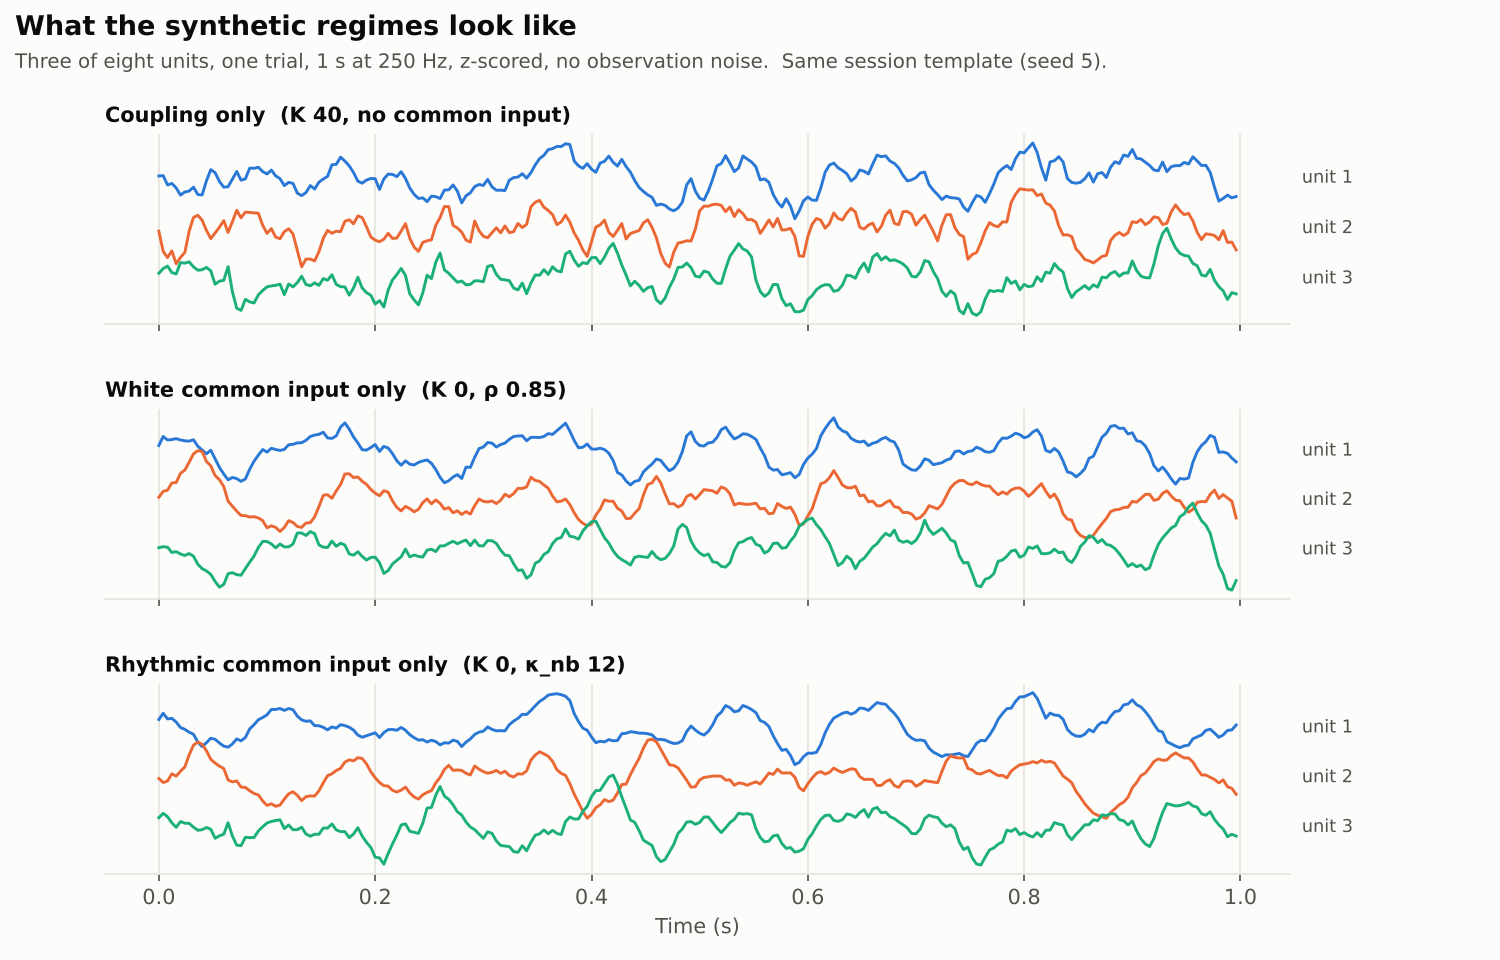
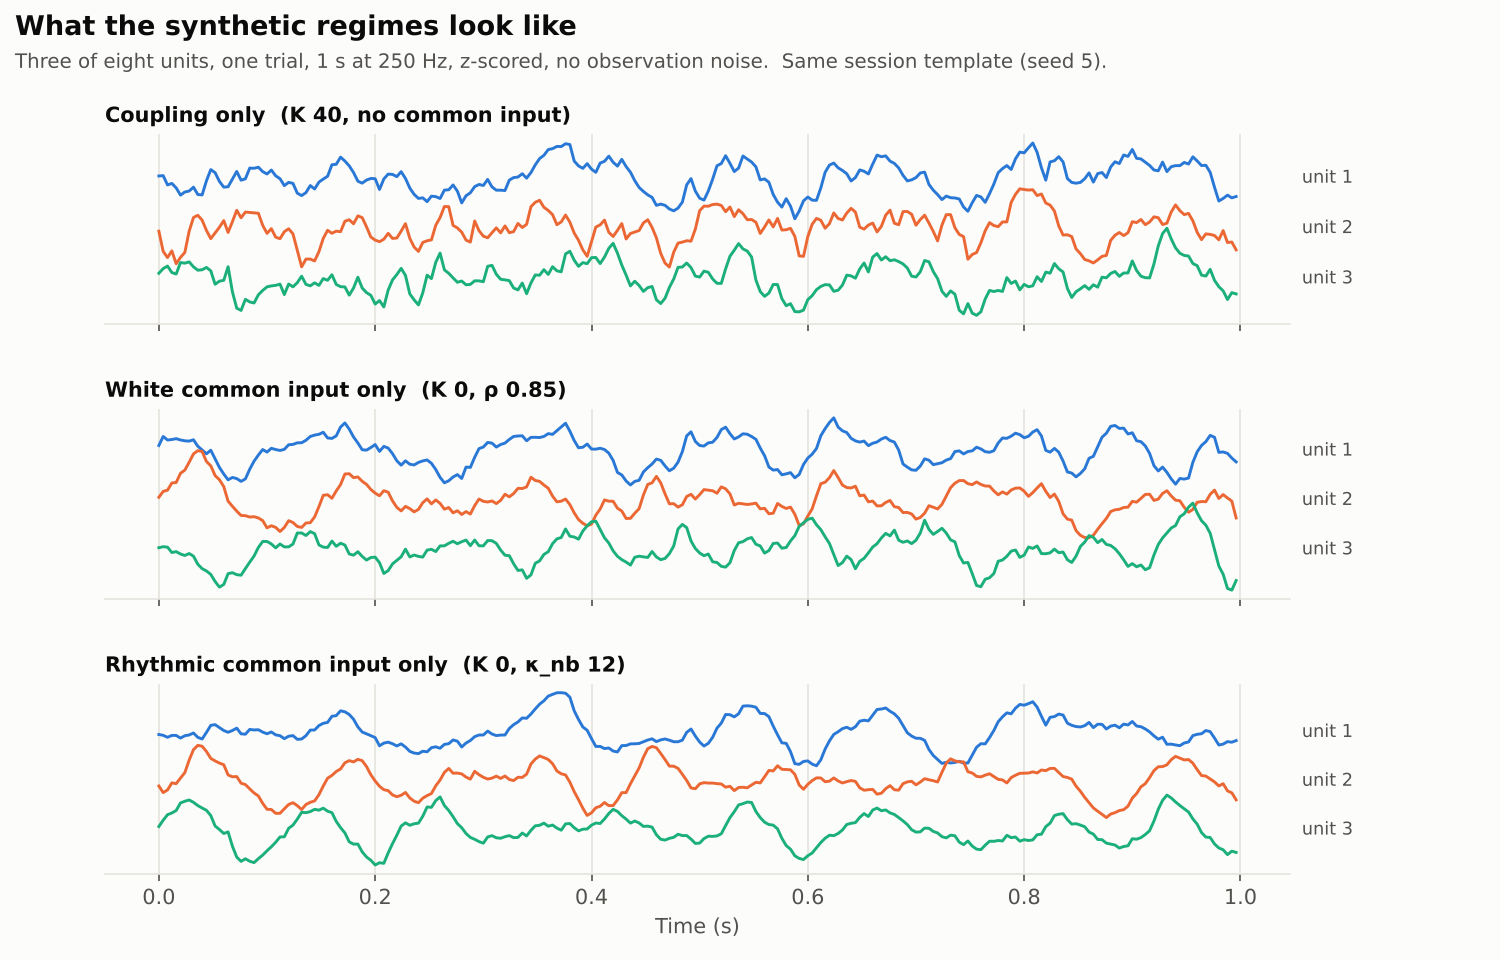
Screen 11 outcome: calibration failed (effective alpha 1.00); rhythmic common input fires rule v3r with P 0.94-1.00 -> TE/LDS rule retired as pre-committed; white common input and volume conduction correctly blocked; correlated 1/f noise defeats noise matching; fig 8

diff --git a/results/README_results.md b/results/README_results.md
@@ -543,3 +543,52 @@ The dry runs check that the runner and the analysis path behave.
 - Its power for a 20% EC change is marginal at 10 sessions. hc-5 has 7, so only effects of about 30% or more are
   realistic.
 - Short 8-site shanks make the whole route infeasible. Gate 0 will decide this on the real data.
+
+## Screen 11: terminal calibration of rule v3r (DEVIATIONS 21; `results/screen11/`; fig 8)
+
+**Pre-committed outcome: the TE/LDS within-session rule is RETIRED.** It must not be used on any real data. This is
+reported as a negative methods result.
+
+**Calibration.** The rhythmic-drive levels were kappa 4.25 / 5.91 / 9.22, which raise synchrony by 0.5x / 1x / 2x
+the synchrony increase of K 25 -> 40 (Delta PLV 0.055).
+
+| cell | Delta PLV | Delta S_TE_al | rel Delta S_inst_dn | P(TE leg) | **P(rule)** | must |
+|---|---|---|---|---|---|---|
+| null / +1 Hz / self-damping x2 | <= 0 | <= 0 | - | 0.00 | <= 0.00 (TE bound) | not fire |
+| -1 Hz | -0.011 | +0.0005 | +0.05 | 0.16 | **0.34** | not fire |
+| **rhythmic common input low / mid / high** | +0.032 / +0.056 / +0.111 | +0.0029 / +0.0054 / +0.0115 | +0.06 / +0.08 / +0.11 | 1.00 | **1.00 / 1.00 / 0.94** | not fire |
+| white common rho 0.55 / 0.60 / 0.65 | +0.005 / +0.012 / +0.020 | small | +0.46 / +0.70 (0.60 / 0.65) | 0.01 / 0.10 / 0.15 | 0.01 (bound) / 0.00 / 0.00 | not fire |
+| volume conduction | +0.166 | +0.0197 | +4.27 | 1.00 | 0.00 | not fire |
+| correlated 1/f noise, A 10 dB vs B 0 dB | +0.029 | +0.0017 | -0.25 | 1.00 | **1.00** | not fire |
+| coupling K30 / K35 / K40 | +0.023 / +0.044 / +0.064 | +0.0021 / +0.0043 / +0.0065 | +0.08 (K35) | 1.00 | 0.99 (K35) | fire |
+| coupling K35 with rhythm in both | +0.052 | +0.0056 | +0.09 | 1.00 | 1.00 | fire |
+
+**Verdict (frozen criteria).**
+- Effective alpha = **1.00** (calibration fails).
+- Power at K35 = 0.99.
+- Retirement is triggered by all three rhythmic cells (DEVIATIONS 20/21 pre-commitment).
+
+**What the numbers say.**
+1. **Rhythmic common input is indistinguishable from coupling for this rule.** Per unit of synchrony gained, it
+   raises TE as much as coupling does (+0.0054 at Delta PLV 0.056, vs +0.0043 at 0.044 for K35). It also moves
+   the denoised instantaneous correlation by the same small amount (+8% vs +8%).
+   - A shared rhythm is a latent oscillator with memory. The LDS absorbs it into the lagged dynamics A, not into
+     the instantaneous covariance Q, exactly as the information theorist and the statistician predicted in
+     board round 2.
+   - This is the rival hypothesis for hc-5 (septal/EC theta drive), so the rule cannot answer the question it was
+     built for.
+2. **What the guard does catch.** It works for instantaneous sources: white common input (P 0.00 at rho 0.60 and
+   0.65) and volume conduction (rel Delta +427%, P 0.00).
+3. **Noise matching fails under spatially correlated 1/f noise.** Q1 fires with P 1.00, because the diagonal-R
+   model mis-estimates correlated noise and the guard then sees a 25% *drop*. This confirms the board's concern
+   about real sensor noise.
+4. **The frequency fix is incomplete with the exact integrator** (-1 Hz: P 0.34). Part of the stage D/C
+   frequency "fix" was compensating the Euler damping artefact.
+
+**Consequences (already in place).**
+- **hc-5:** the adopted plan is the generator-mix hypothesis (`docs/PREREG_H3_GENERATOR_MIX_DRAFT.md`), not a
+  coupling statistic.
+- **Synthetic programme:** screens 1-11 are closed as a methods result. Within-session phase-dependence statistics
+  (TE plus instantaneous-correlation guard, with frequency and noise adjustments) separate coupling from
+  *instantaneous* common input. They do not separate it from *rhythmic* common input, which is the physiologically
+  relevant alternative.

diff --git a/README.md b/README.md
@@ -8,8 +8,10 @@ generated internally (hippocampal wheel running), and not where it is stimulus-d
 - **Phase 2** (synthetic H0) hit its stop rule.
 - **Synthetic mechanism-statistic screens 1-10** are documented in DEVIATIONS 11-20. Screen 10 stage C is
   running.
-- **A six-persona review board** concluded that the TE/LDS within-session rule gets one terminal calibration
-  (screen 11), and is retired if it fails rhythmic common input. See [docs/REVIEW_BOARD.md](docs/REVIEW_BOARD.md).
+- **A six-persona review board** sent the TE/LDS within-session rule to a final calibration (screen 11). **It
+  failed and is retired** (2026-11-04): it reads rhythmic common input as coupling (P(fire) 0.94-1.00). See
+  [docs/REVIEW_BOARD.md](docs/REVIEW_BOARD.md) and results "Screen 11".
+- **hc-5** now follows the generator-mix plan (CSD of the CA3 vs EC3 theta sinks), gated by laminar coverage.
 
 ## Start here
 

diff --git a/DEVIATIONS.md b/DEVIATIONS.md
@@ -416,3 +416,8 @@ does the rule confuse a synchrony increase caused by shared rhythm with one caus
 - **Resumability:** the run resumes from `results/screen11/tier*_partial.json` (untracked).
 - **Provenance:** results are written with strict JSON.
 
+**DEVIATION 21 outcome (2026-11-04, appended after the run; protocol above unchanged).** Calibration failed:
+effective alpha 1.00, power at K35 0.99. The pre-committed retirement was triggered by R1/R2/R3 (rhythmic common
+input: P(fire) 1.00 / 1.00 / 0.94). **The TE/LDS rule is retired from real-data use.** Results:
+`results/screen11/report.json` and README_results "Screen 11".
+
